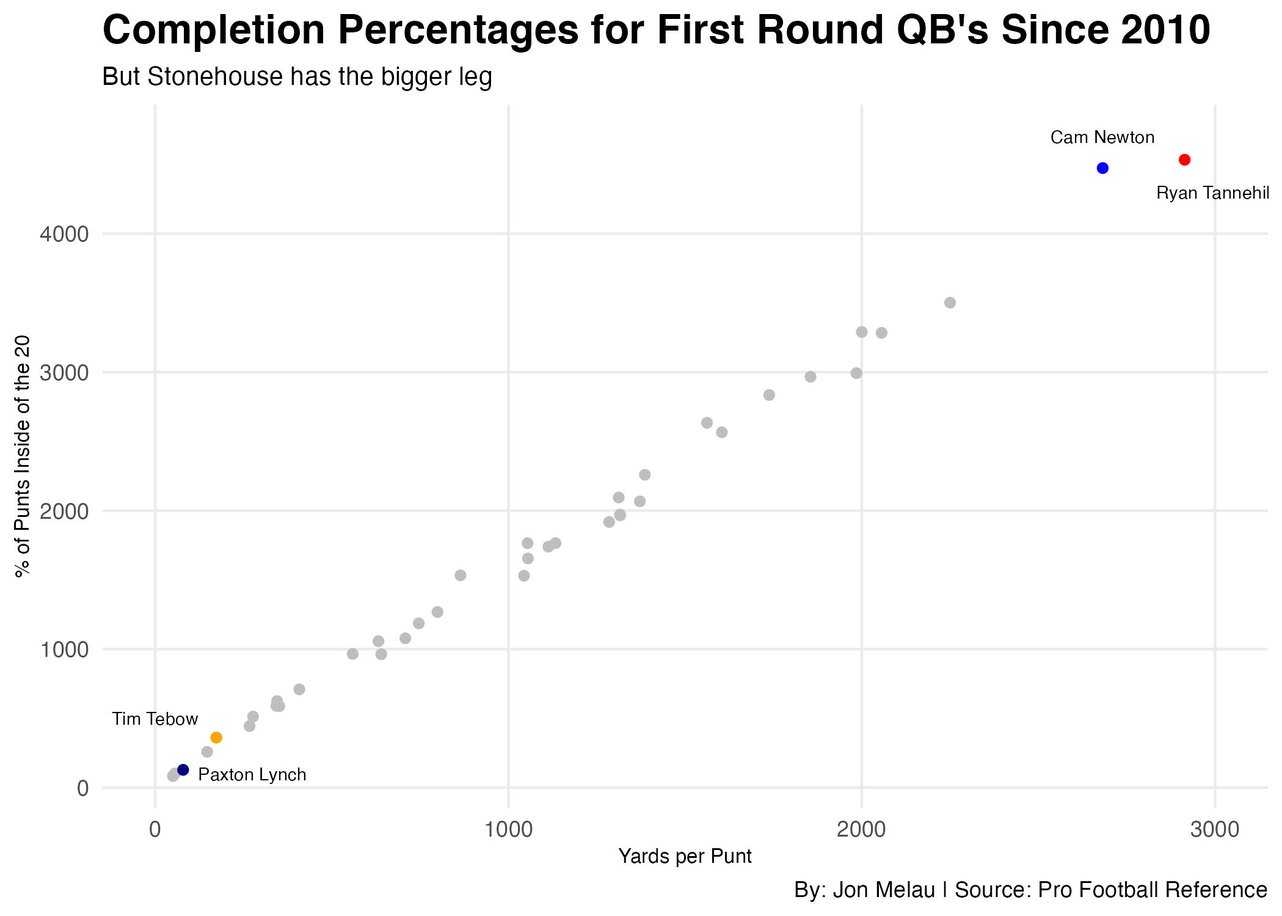
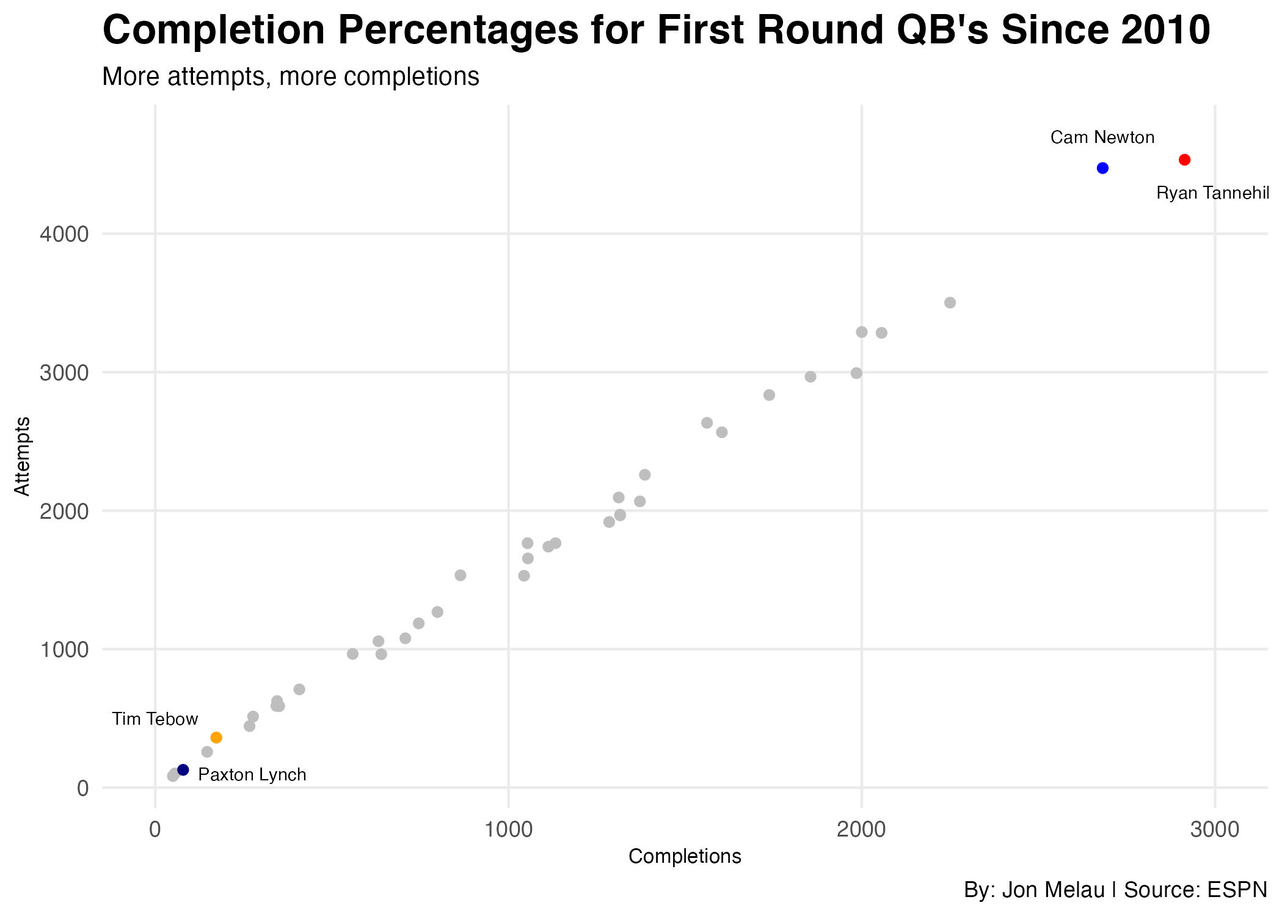
finishing touches

diff --git a/posts/ranking-the-first-round-quarterbacks-since-2010/index.html b/posts/ranking-the-first-round-quarterbacks-since-2010/index.html
@@ -184,36 +184,11 @@ pre > code.sourceCode > span > a:first-child::before { text-decoration: underlin
 <div class="cell">
 <details>
 <summary>Code</summary>
-<div class="sourceCode cell-code" id="cb1"><pre class="sourceCode r code-with-copy"><code class="sourceCode r"><span id="cb1-1"><a href="#cb1-1" aria-hidden="true" tabindex="-1"></a><span class="fu">library</span>(tidyverse)</span></code><button title="Copy to Clipboard" class="code-copy-button"><i class="bi"></i></button></pre></div>
-</details>
-<div class="cell-output cell-output-stderr">
-<pre><code>── Attaching packages ─────────────────────────────────────── tidyverse 1.3.2 ──
-✔ ggplot2 3.4.0     ✔ purrr   1.0.1
-✔ tibble  3.2.1     ✔ dplyr   1.1.2
-✔ tidyr   1.3.0     ✔ stringr 1.5.0
-✔ readr   2.1.3     ✔ forcats 0.5.2
-── Conflicts ────────────────────────────────────────── tidyverse_conflicts() ──
-✖ dplyr::filter() masks stats::filter()
-✖ dplyr::lag()    masks stats::lag()</code></pre>
-</div>
-<details>
-<summary>Code</summary>
-<div class="sourceCode cell-code" id="cb3"><pre class="sourceCode r code-with-copy"><code class="sourceCode r"><span id="cb3-1"><a href="#cb3-1" aria-hidden="true" tabindex="-1"></a><span class="fu">library</span>(ggplot2)</span>
-<span id="cb3-2"><a href="#cb3-2" aria-hidden="true" tabindex="-1"></a><span class="fu">library</span>(ggalt)</span></code><button title="Copy to Clipboard" class="code-copy-button"><i class="bi"></i></button></pre></div>
-</details>
-<div class="cell-output cell-output-stderr">
-<pre><code>Registered S3 methods overwritten by 'ggalt':
-  method                  from   
-  grid.draw.absoluteGrob  ggplot2
-  grobHeight.absoluteGrob ggplot2
-  grobWidth.absoluteGrob  ggplot2
-  grobX.absoluteGrob      ggplot2
-  grobY.absoluteGrob      ggplot2</code></pre>
-</div>
-<details>
-<summary>Code</summary>
-<div class="sourceCode cell-code" id="cb5"><pre class="sourceCode r code-with-copy"><code class="sourceCode r"><span id="cb5-1"><a href="#cb5-1" aria-hidden="true" tabindex="-1"></a><span class="fu">library</span>(labeling)</span>
-<span id="cb5-2"><a href="#cb5-2" aria-hidden="true" tabindex="-1"></a><span class="fu">library</span>(ggrepel)</span></code><button title="Copy to Clipboard" class="code-copy-button"><i class="bi"></i></button></pre></div>
+<div class="sourceCode cell-code" id="cb1"><pre class="sourceCode r code-with-copy"><code class="sourceCode r"><span id="cb1-1"><a href="#cb1-1" aria-hidden="true" tabindex="-1"></a><span class="fu">library</span>(tidyverse)</span>
+<span id="cb1-2"><a href="#cb1-2" aria-hidden="true" tabindex="-1"></a><span class="fu">library</span>(ggplot2)</span>
+<span id="cb1-3"><a href="#cb1-3" aria-hidden="true" tabindex="-1"></a><span class="fu">library</span>(ggalt)</span>
+<span id="cb1-4"><a href="#cb1-4" aria-hidden="true" tabindex="-1"></a><span class="fu">library</span>(labeling)</span>
+<span id="cb1-5"><a href="#cb1-5" aria-hidden="true" tabindex="-1"></a><span class="fu">library</span>(ggrepel)</span></code><button title="Copy to Clipboard" class="code-copy-button"><i class="bi"></i></button></pre></div>
 </details>
 </div>
 <p>The quarterback position is widely renowned as the hardest position in all of sports. You need a mixture of arm strength, accuracy, mobility, confidence, awareness, and so many other traits to be sustainable at the highest level of the sport. Year after year college prospects declare for the NFL draft, submitting their name into a pool of players to hopefully be selected to an NFL team. Each year, this pool of players typically contains a few high profile quarterbacks that are slated to be taken with high overall, or first-round picks.</p>
@@ -224,40 +199,30 @@ pre > code.sourceCode > span > a:first-child::before { text-decoration: underlin
 <div class="cell">
 <details>
 <summary>Code</summary>
-<div class="sourceCode cell-code" id="cb6"><pre class="sourceCode r code-with-copy"><code class="sourceCode r"><span id="cb6-1"><a href="#cb6-1" aria-hidden="true" tabindex="-1"></a> qbdata <span class="ot">&lt;-</span> <span class="fu">read_csv</span>(<span class="st">"data/qbsdata.csv"</span>)</span></code><button title="Copy to Clipboard" class="code-copy-button"><i class="bi"></i></button></pre></div>
+<div class="sourceCode cell-code" id="cb2"><pre class="sourceCode r code-with-copy"><code class="sourceCode r"><span id="cb2-1"><a href="#cb2-1" aria-hidden="true" tabindex="-1"></a> qbdata <span class="ot">&lt;-</span> <span class="fu">read_csv</span>(<span class="st">"data/qbsdata.csv"</span>)</span></code><button title="Copy to Clipboard" class="code-copy-button"><i class="bi"></i></button></pre></div>
 </details>
-<div class="cell-output cell-output-stderr">
-<pre><code>Rows: 39 Columns: 13
-── Column specification ────────────────────────────────────────────────────────
-Delimiter: ","
-chr  (1): Name
-dbl (12): Draft Year, Draft Pick, Games Played, Attempts, Completions, Compl...
-
-ℹ Use `spec()` to retrieve the full column specification for this data.
-ℹ Specify the column types or set `show_col_types = FALSE` to quiet this message.</code></pre>
-</div>
 </div>
 <div class="cell">
 <details>
 <summary>Code</summary>
-<div class="sourceCode cell-code" id="cb8"><pre class="sourceCode r code-with-copy"><code class="sourceCode r"><span id="cb8-1"><a href="#cb8-1" aria-hidden="true" tabindex="-1"></a><span class="fu">ggplot</span>(qbdata, <span class="fu">aes</span>(<span class="at">x=</span><span class="fu">reorder</span>(Name, TD), <span class="at">weight=</span>INT, <span class="at">fill=</span>TD)) <span class="sc">+</span> </span>
-<span id="cb8-2"><a href="#cb8-2" aria-hidden="true" tabindex="-1"></a>  <span class="fu">geom_bar</span>() <span class="sc">+</span> </span>
-<span id="cb8-3"><a href="#cb8-3" aria-hidden="true" tabindex="-1"></a>  <span class="fu">coord_flip</span>() <span class="sc">+</span></span>
-<span id="cb8-4"><a href="#cb8-4" aria-hidden="true" tabindex="-1"></a>  <span class="fu">labs</span>(</span>
-<span id="cb8-5"><a href="#cb8-5" aria-hidden="true" tabindex="-1"></a>    <span class="at">y =</span> <span class="st">"Touchdown to Interception Ratio"</span>,</span>
-<span id="cb8-6"><a href="#cb8-6" aria-hidden="true" tabindex="-1"></a>    <span class="at">x =</span> <span class="st">"Player"</span>,</span>
-<span id="cb8-7"><a href="#cb8-7" aria-hidden="true" tabindex="-1"></a>    <span class="at">title =</span> <span class="st">"Touch Down to Interception Ratio"</span>,</span>
-<span id="cb8-8"><a href="#cb8-8" aria-hidden="true" tabindex="-1"></a>    <span class="at">subtitle =</span> <span class="st">"The lighter the color, the better the ratio"</span>,</span>
-<span id="cb8-9"><a href="#cb8-9" aria-hidden="true" tabindex="-1"></a>    <span class="at">source =</span> <span class="st">"ESPN"</span></span>
-<span id="cb8-10"><a href="#cb8-10" aria-hidden="true" tabindex="-1"></a>  ) <span class="sc">+</span></span>
-<span id="cb8-11"><a href="#cb8-11" aria-hidden="true" tabindex="-1"></a>  <span class="fu">scale_y_continuous</span>(<span class="at">labels =</span> scales<span class="sc">::</span>comma) <span class="sc">+</span></span>
-<span id="cb8-12"><a href="#cb8-12" aria-hidden="true" tabindex="-1"></a>  <span class="fu">theme_minimal</span>() <span class="sc">+</span></span>
-<span id="cb8-13"><a href="#cb8-13" aria-hidden="true" tabindex="-1"></a>  <span class="fu">theme</span>(</span>
-<span id="cb8-14"><a href="#cb8-14" aria-hidden="true" tabindex="-1"></a>    <span class="at">plot.title =</span> <span class="fu">element_text</span>(<span class="at">size =</span> <span class="dv">16</span>, <span class="at">face =</span> <span class="st">"bold"</span>),</span>
-<span id="cb8-15"><a href="#cb8-15" aria-hidden="true" tabindex="-1"></a>    <span class="at">plot.subtitle =</span> <span class="fu">element_text</span>(<span class="at">size =</span> <span class="dv">10</span>),</span>
-<span id="cb8-16"><a href="#cb8-16" aria-hidden="true" tabindex="-1"></a>    <span class="at">axis.title =</span> <span class="fu">element_text</span>(<span class="at">size =</span> <span class="dv">10</span>),</span>
-<span id="cb8-17"><a href="#cb8-17" aria-hidden="true" tabindex="-1"></a>    <span class="at">panel.grid.minor =</span> <span class="fu">element_blank</span>()</span>
-<span id="cb8-18"><a href="#cb8-18" aria-hidden="true" tabindex="-1"></a>  )</span></code><button title="Copy to Clipboard" class="code-copy-button"><i class="bi"></i></button></pre></div>
+<div class="sourceCode cell-code" id="cb3"><pre class="sourceCode r code-with-copy"><code class="sourceCode r"><span id="cb3-1"><a href="#cb3-1" aria-hidden="true" tabindex="-1"></a><span class="fu">ggplot</span>(qbdata, <span class="fu">aes</span>(<span class="at">x=</span><span class="fu">reorder</span>(Name, TD), <span class="at">weight=</span>INT, <span class="at">fill=</span>TD)) <span class="sc">+</span> </span>
+<span id="cb3-2"><a href="#cb3-2" aria-hidden="true" tabindex="-1"></a>  <span class="fu">geom_bar</span>() <span class="sc">+</span> </span>
+<span id="cb3-3"><a href="#cb3-3" aria-hidden="true" tabindex="-1"></a>  <span class="fu">coord_flip</span>() <span class="sc">+</span></span>
+<span id="cb3-4"><a href="#cb3-4" aria-hidden="true" tabindex="-1"></a>  <span class="fu">labs</span>(</span>
+<span id="cb3-5"><a href="#cb3-5" aria-hidden="true" tabindex="-1"></a>    <span class="at">y =</span> <span class="st">"Touchdown to Interception Ratio"</span>,</span>
+<span id="cb3-6"><a href="#cb3-6" aria-hidden="true" tabindex="-1"></a>    <span class="at">x =</span> <span class="st">"Player"</span>,</span>
+<span id="cb3-7"><a href="#cb3-7" aria-hidden="true" tabindex="-1"></a>    <span class="at">title =</span> <span class="st">"Touch Down to Interception Ratio"</span>,</span>
+<span id="cb3-8"><a href="#cb3-8" aria-hidden="true" tabindex="-1"></a>    <span class="at">subtitle =</span> <span class="st">"The lighter the color, the better the ratio"</span>,</span>
+<span id="cb3-9"><a href="#cb3-9" aria-hidden="true" tabindex="-1"></a>    <span class="at">source =</span> <span class="st">"ESPN"</span></span>
+<span id="cb3-10"><a href="#cb3-10" aria-hidden="true" tabindex="-1"></a>  ) <span class="sc">+</span></span>
+<span id="cb3-11"><a href="#cb3-11" aria-hidden="true" tabindex="-1"></a>  <span class="fu">scale_y_continuous</span>(<span class="at">labels =</span> scales<span class="sc">::</span>comma) <span class="sc">+</span></span>
+<span id="cb3-12"><a href="#cb3-12" aria-hidden="true" tabindex="-1"></a>  <span class="fu">theme_minimal</span>() <span class="sc">+</span></span>
+<span id="cb3-13"><a href="#cb3-13" aria-hidden="true" tabindex="-1"></a>  <span class="fu">theme</span>(</span>
+<span id="cb3-14"><a href="#cb3-14" aria-hidden="true" tabindex="-1"></a>    <span class="at">plot.title =</span> <span class="fu">element_text</span>(<span class="at">size =</span> <span class="dv">16</span>, <span class="at">face =</span> <span class="st">"bold"</span>),</span>
+<span id="cb3-15"><a href="#cb3-15" aria-hidden="true" tabindex="-1"></a>    <span class="at">plot.subtitle =</span> <span class="fu">element_text</span>(<span class="at">size =</span> <span class="dv">10</span>),</span>
+<span id="cb3-16"><a href="#cb3-16" aria-hidden="true" tabindex="-1"></a>    <span class="at">axis.title =</span> <span class="fu">element_text</span>(<span class="at">size =</span> <span class="dv">10</span>),</span>
+<span id="cb3-17"><a href="#cb3-17" aria-hidden="true" tabindex="-1"></a>    <span class="at">panel.grid.minor =</span> <span class="fu">element_blank</span>()</span>
+<span id="cb3-18"><a href="#cb3-18" aria-hidden="true" tabindex="-1"></a>  )</span></code><button title="Copy to Clipboard" class="code-copy-button"><i class="bi"></i></button></pre></div>
 </details>
 <div class="cell-output-display">
 <p><img src="index_files/figure-html/unnamed-chunk-3-1.png" class="img-fluid" width="672"></p>
@@ -270,83 +235,70 @@ dbl (12): Draft Year, Draft Pick, Games Played, Attempts, Completions, Compl...
 <div class="cell">
 <details>
 <summary>Code</summary>
-<div class="sourceCode cell-code" id="cb9"><pre class="sourceCode r code-with-copy"><code class="sourceCode r"><span id="cb9-1"><a href="#cb9-1" aria-hidden="true" tabindex="-1"></a> qbrank <span class="ot">&lt;-</span> <span class="fu">read_csv</span>(<span class="st">"qbsrank.csv"</span>)</span></code><button title="Copy to Clipboard" class="code-copy-button"><i class="bi"></i></button></pre></div>
-</details>
-<div class="cell-output cell-output-stderr">
-<pre><code>Rows: 39 Columns: 4
-── Column specification ────────────────────────────────────────────────────────
-Delimiter: ","
-chr (2): Name, Team
-dbl (2): Rank, Rating
-
-ℹ Use `spec()` to retrieve the full column specification for this data.
-ℹ Specify the column types or set `show_col_types = FALSE` to quiet this message.</code></pre>
-</div>
-</div>
-<div class="cell">
-<details>
-<summary>Code</summary>
-<div class="sourceCode cell-code" id="cb11"><pre class="sourceCode r code-with-copy"><code class="sourceCode r"><span id="cb11-1"><a href="#cb11-1" aria-hidden="true" tabindex="-1"></a>Paxton_Lynch <span class="ot">&lt;-</span> qbdata <span class="sc">%&gt;%</span></span>
-<span id="cb11-2"><a href="#cb11-2" aria-hidden="true" tabindex="-1"></a>  <span class="fu">filter</span> (Name <span class="sc">==</span> <span class="st">"Paxton Lynch"</span>)</span></code><button title="Copy to Clipboard" class="code-copy-button"><i class="bi"></i></button></pre></div>
+<div class="sourceCode cell-code" id="cb4"><pre class="sourceCode r code-with-copy"><code class="sourceCode r"><span id="cb4-1"><a href="#cb4-1" aria-hidden="true" tabindex="-1"></a> qbrank <span class="ot">&lt;-</span> <span class="fu">read_csv</span>(<span class="st">"qbsrank.csv"</span>)</span></code><button title="Copy to Clipboard" class="code-copy-button"><i class="bi"></i></button></pre></div>
 </details>
 </div>
 <div class="cell">
 <details>
 <summary>Code</summary>
-<div class="sourceCode cell-code" id="cb12"><pre class="sourceCode r code-with-copy"><code class="sourceCode r"><span id="cb12-1"><a href="#cb12-1" aria-hidden="true" tabindex="-1"></a>Tim_Tebow <span class="ot">&lt;-</span> qbdata <span class="sc">%&gt;%</span></span>
-<span id="cb12-2"><a href="#cb12-2" aria-hidden="true" tabindex="-1"></a>  <span class="fu">filter</span> (Name <span class="sc">==</span> <span class="st">"Tim Tebow"</span>)</span></code><button title="Copy to Clipboard" class="code-copy-button"><i class="bi"></i></button></pre></div>
+<div class="sourceCode cell-code" id="cb5"><pre class="sourceCode r code-with-copy"><code class="sourceCode r"><span id="cb5-1"><a href="#cb5-1" aria-hidden="true" tabindex="-1"></a>Paxton_Lynch <span class="ot">&lt;-</span> qbdata <span class="sc">%&gt;%</span></span>
+<span id="cb5-2"><a href="#cb5-2" aria-hidden="true" tabindex="-1"></a>  <span class="fu">filter</span> (Name <span class="sc">==</span> <span class="st">"Paxton Lynch"</span>)</span></code><button title="Copy to Clipboard" class="code-copy-button"><i class="bi"></i></button></pre></div>
 </details>
 </div>
 <div class="cell">
 <details>
 <summary>Code</summary>
-<div class="sourceCode cell-code" id="cb13"><pre class="sourceCode r code-with-copy"><code class="sourceCode r"><span id="cb13-1"><a href="#cb13-1" aria-hidden="true" tabindex="-1"></a>Cam_Newton <span class="ot">&lt;-</span> qbdata <span class="sc">%&gt;%</span></span>
-<span id="cb13-2"><a href="#cb13-2" aria-hidden="true" tabindex="-1"></a>  <span class="fu">filter</span> (Name <span class="sc">==</span> <span class="st">"Cam Newton"</span>)</span></code><button title="Copy to Clipboard" class="code-copy-button"><i class="bi"></i></button></pre></div>
+<div class="sourceCode cell-code" id="cb6"><pre class="sourceCode r code-with-copy"><code class="sourceCode r"><span id="cb6-1"><a href="#cb6-1" aria-hidden="true" tabindex="-1"></a>Tim_Tebow <span class="ot">&lt;-</span> qbdata <span class="sc">%&gt;%</span></span>
+<span id="cb6-2"><a href="#cb6-2" aria-hidden="true" tabindex="-1"></a>  <span class="fu">filter</span> (Name <span class="sc">==</span> <span class="st">"Tim Tebow"</span>)</span></code><button title="Copy to Clipboard" class="code-copy-button"><i class="bi"></i></button></pre></div>
 </details>
 </div>
 <div class="cell">
 <details>
 <summary>Code</summary>
-<div class="sourceCode cell-code" id="cb14"><pre class="sourceCode r code-with-copy"><code class="sourceCode r"><span id="cb14-1"><a href="#cb14-1" aria-hidden="true" tabindex="-1"></a>Ryan_Tannehill <span class="ot">&lt;-</span> qbdata <span class="sc">%&gt;%</span></span>
-<span id="cb14-2"><a href="#cb14-2" aria-hidden="true" tabindex="-1"></a>  <span class="fu">filter</span> (Name <span class="sc">==</span> <span class="st">"Ryan Tannehill"</span>)</span></code><button title="Copy to Clipboard" class="code-copy-button"><i class="bi"></i></button></pre></div>
+<div class="sourceCode cell-code" id="cb7"><pre class="sourceCode r code-with-copy"><code class="sourceCode r"><span id="cb7-1"><a href="#cb7-1" aria-hidden="true" tabindex="-1"></a>Cam_Newton <span class="ot">&lt;-</span> qbdata <span class="sc">%&gt;%</span></span>
+<span id="cb7-2"><a href="#cb7-2" aria-hidden="true" tabindex="-1"></a>  <span class="fu">filter</span> (Name <span class="sc">==</span> <span class="st">"Cam Newton"</span>)</span></code><button title="Copy to Clipboard" class="code-copy-button"><i class="bi"></i></button></pre></div>
 </details>
 </div>
 <div class="cell">
 <details>
 <summary>Code</summary>
-<div class="sourceCode cell-code" id="cb15"><pre class="sourceCode r code-with-copy"><code class="sourceCode r"><span id="cb15-1"><a href="#cb15-1" aria-hidden="true" tabindex="-1"></a><span class="fu">ggplot</span>() <span class="sc">+</span></span>
-<span id="cb15-2"><a href="#cb15-2" aria-hidden="true" tabindex="-1"></a><span class="fu">geom_point</span>(<span class="at">data =</span> qbdata, <span class="fu">aes</span>(<span class="at">x =</span> Completions, <span class="at">y =</span> Attempts ), <span class="at">color =</span> <span class="st">'grey'</span>) <span class="sc">+</span></span>
-<span id="cb15-3"><a href="#cb15-3" aria-hidden="true" tabindex="-1"></a>  <span class="fu">geom_point</span>(<span class="at">data =</span> Paxton_Lynch, <span class="fu">aes</span>(<span class="at">x =</span> Completions, <span class="at">y =</span> Attempts), <span class="at">color =</span> <span class="st">'navy'</span>) <span class="sc">+</span></span>
-<span id="cb15-4"><a href="#cb15-4" aria-hidden="true" tabindex="-1"></a>  <span class="fu">geom_point</span>(<span class="at">data =</span> Tim_Tebow, <span class="fu">aes</span>(<span class="at">x =</span> Completions, <span class="at">y =</span> Attempts), <span class="at">color =</span> <span class="st">'orange'</span>) <span class="sc">+</span></span>
-<span id="cb15-5"><a href="#cb15-5" aria-hidden="true" tabindex="-1"></a>  <span class="fu">geom_point</span>(<span class="at">data =</span> Cam_Newton, <span class="fu">aes</span>(<span class="at">x =</span> Completions, <span class="at">y =</span> Attempts), <span class="at">color =</span> <span class="st">'blue'</span>) <span class="sc">+</span></span>
-<span id="cb15-6"><a href="#cb15-6" aria-hidden="true" tabindex="-1"></a>  <span class="fu">geom_point</span>(<span class="at">data =</span> Ryan_Tannehill, <span class="fu">aes</span>(<span class="at">x =</span> Completions, <span class="at">y =</span> Attempts), <span class="at">color =</span> <span class="st">'red'</span>) <span class="sc">+</span></span>
-<span id="cb15-7"><a href="#cb15-7" aria-hidden="true" tabindex="-1"></a>  <span class="fu">geom_text</span>(<span class="fu">aes</span>(<span class="at">x=</span><span class="dv">275</span>, <span class="at">y=</span><span class="dv">100</span>, <span class="at">label=</span><span class="st">"Paxton Lynch"</span>),<span class="at">size=</span><span class="fl">2.5</span>, <span class="at">color=</span><span class="st">"black"</span>) <span class="sc">+</span></span>
-<span id="cb15-8"><a href="#cb15-8" aria-hidden="true" tabindex="-1"></a>  <span class="fu">geom_text</span>(<span class="fu">aes</span>(<span class="at">x=</span><span class="dv">0</span>, <span class="at">y=</span><span class="dv">500</span>, <span class="at">label=</span><span class="st">"Tim Tebow"</span>),<span class="at">size=</span><span class="fl">2.5</span>, <span class="at">color=</span><span class="st">"black"</span>) <span class="sc">+</span></span>
-<span id="cb15-9"><a href="#cb15-9" aria-hidden="true" tabindex="-1"></a>  <span class="fu">geom_text</span>(<span class="fu">aes</span>(<span class="at">x=</span><span class="dv">2682</span>, <span class="at">y=</span><span class="dv">4700</span>, <span class="at">label=</span><span class="st">"Cam Newton"</span>),<span class="at">size=</span><span class="fl">2.5</span>, <span class="at">color=</span><span class="st">"black"</span>) <span class="sc">+</span></span>
-<span id="cb15-10"><a href="#cb15-10" aria-hidden="true" tabindex="-1"></a><span class="fu">geom_text</span>(<span class="fu">aes</span>(<span class="at">x=</span><span class="dv">3000</span>, <span class="at">y=</span><span class="dv">4300</span>, <span class="at">label=</span><span class="st">"Ryan Tannehill"</span>),<span class="at">size=</span><span class="fl">2.5</span>, <span class="at">color=</span><span class="st">"black"</span>) <span class="sc">+</span></span>
-<span id="cb15-11"><a href="#cb15-11" aria-hidden="true" tabindex="-1"></a>  <span class="fu">labs</span>(<span class="at">title =</span> <span class="st">"Completion Percentages for First Round QB's Since 2010"</span>,</span>
-<span id="cb15-12"><a href="#cb15-12" aria-hidden="true" tabindex="-1"></a>       <span class="at">subtitle =</span> <span class="st">"But Stonehouse has the bigger leg"</span>,</span>
-<span id="cb15-13"><a href="#cb15-13" aria-hidden="true" tabindex="-1"></a>       <span class="at">x =</span> <span class="st">"Yards per Punt"</span>, <span class="at">y =</span> <span class="st">"% of Punts Inside of the 20"</span>,</span>
-<span id="cb15-14"><a href="#cb15-14" aria-hidden="true" tabindex="-1"></a>       <span class="at">caption =</span> <span class="st">"By: Jon Melau | Source: Pro Football Reference"</span>) <span class="sc">+</span></span>
-<span id="cb15-15"><a href="#cb15-15" aria-hidden="true" tabindex="-1"></a>  <span class="fu">scale_x_continuous</span>(<span class="at">limits =</span> <span class="fu">c</span>(<span class="dv">0</span>, <span class="dv">3000</span>)) <span class="sc">+</span></span>
-<span id="cb15-16"><a href="#cb15-16" aria-hidden="true" tabindex="-1"></a>  <span class="fu">theme_minimal</span>() <span class="sc">+</span></span>
-<span id="cb15-17"><a href="#cb15-17" aria-hidden="true" tabindex="-1"></a>  <span class="fu">theme</span>(</span>
-<span id="cb15-18"><a href="#cb15-18" aria-hidden="true" tabindex="-1"></a>    <span class="at">plot.title =</span> <span class="fu">element_text</span>(<span class="at">size =</span> <span class="dv">16</span>, <span class="at">face =</span> <span class="st">"bold"</span>),</span>
-<span id="cb15-19"><a href="#cb15-19" aria-hidden="true" tabindex="-1"></a>    <span class="at">axis.title =</span> <span class="fu">element_text</span>(<span class="at">size =</span> <span class="dv">8</span>),</span>
-<span id="cb15-20"><a href="#cb15-20" aria-hidden="true" tabindex="-1"></a>    <span class="at">plot.subtitle =</span> <span class="fu">element_text</span>(<span class="at">size =</span> <span class="dv">10</span>),</span>
-<span id="cb15-21"><a href="#cb15-21" aria-hidden="true" tabindex="-1"></a>    <span class="at">panel.grid.minor =</span> <span class="fu">element_blank</span>()</span>
-<span id="cb15-22"><a href="#cb15-22" aria-hidden="true" tabindex="-1"></a>  )</span></code><button title="Copy to Clipboard" class="code-copy-button"><i class="bi"></i></button></pre></div>
+<div class="sourceCode cell-code" id="cb8"><pre class="sourceCode r code-with-copy"><code class="sourceCode r"><span id="cb8-1"><a href="#cb8-1" aria-hidden="true" tabindex="-1"></a>Ryan_Tannehill <span class="ot">&lt;-</span> qbdata <span class="sc">%&gt;%</span></span>
+<span id="cb8-2"><a href="#cb8-2" aria-hidden="true" tabindex="-1"></a>  <span class="fu">filter</span> (Name <span class="sc">==</span> <span class="st">"Ryan Tannehill"</span>)</span></code><button title="Copy to Clipboard" class="code-copy-button"><i class="bi"></i></button></pre></div>
+</details>
+</div>
+<div class="cell">
+<details>
+<summary>Code</summary>
+<div class="sourceCode cell-code" id="cb9"><pre class="sourceCode r code-with-copy"><code class="sourceCode r"><span id="cb9-1"><a href="#cb9-1" aria-hidden="true" tabindex="-1"></a><span class="fu">ggplot</span>() <span class="sc">+</span></span>
+<span id="cb9-2"><a href="#cb9-2" aria-hidden="true" tabindex="-1"></a><span class="fu">geom_point</span>(<span class="at">data =</span> qbdata, <span class="fu">aes</span>(<span class="at">x =</span> Completions, <span class="at">y =</span> Attempts ), <span class="at">color =</span> <span class="st">'grey'</span>) <span class="sc">+</span></span>
+<span id="cb9-3"><a href="#cb9-3" aria-hidden="true" tabindex="-1"></a>  <span class="fu">geom_point</span>(<span class="at">data =</span> Paxton_Lynch, <span class="fu">aes</span>(<span class="at">x =</span> Completions, <span class="at">y =</span> Attempts), <span class="at">color =</span> <span class="st">'navy'</span>) <span class="sc">+</span></span>
+<span id="cb9-4"><a href="#cb9-4" aria-hidden="true" tabindex="-1"></a>  <span class="fu">geom_point</span>(<span class="at">data =</span> Tim_Tebow, <span class="fu">aes</span>(<span class="at">x =</span> Completions, <span class="at">y =</span> Attempts), <span class="at">color =</span> <span class="st">'orange'</span>) <span class="sc">+</span></span>
+<span id="cb9-5"><a href="#cb9-5" aria-hidden="true" tabindex="-1"></a>  <span class="fu">geom_point</span>(<span class="at">data =</span> Cam_Newton, <span class="fu">aes</span>(<span class="at">x =</span> Completions, <span class="at">y =</span> Attempts), <span class="at">color =</span> <span class="st">'blue'</span>) <span class="sc">+</span></span>
+<span id="cb9-6"><a href="#cb9-6" aria-hidden="true" tabindex="-1"></a>  <span class="fu">geom_point</span>(<span class="at">data =</span> Ryan_Tannehill, <span class="fu">aes</span>(<span class="at">x =</span> Completions, <span class="at">y =</span> Attempts), <span class="at">color =</span> <span class="st">'red'</span>) <span class="sc">+</span></span>
+<span id="cb9-7"><a href="#cb9-7" aria-hidden="true" tabindex="-1"></a>  <span class="fu">geom_text</span>(<span class="fu">aes</span>(<span class="at">x=</span><span class="dv">275</span>, <span class="at">y=</span><span class="dv">100</span>, <span class="at">label=</span><span class="st">"Paxton Lynch"</span>),<span class="at">size=</span><span class="fl">2.5</span>, <span class="at">color=</span><span class="st">"black"</span>) <span class="sc">+</span></span>
+<span id="cb9-8"><a href="#cb9-8" aria-hidden="true" tabindex="-1"></a>  <span class="fu">geom_text</span>(<span class="fu">aes</span>(<span class="at">x=</span><span class="dv">0</span>, <span class="at">y=</span><span class="dv">500</span>, <span class="at">label=</span><span class="st">"Tim Tebow"</span>),<span class="at">size=</span><span class="fl">2.5</span>, <span class="at">color=</span><span class="st">"black"</span>) <span class="sc">+</span></span>
+<span id="cb9-9"><a href="#cb9-9" aria-hidden="true" tabindex="-1"></a>  <span class="fu">geom_text</span>(<span class="fu">aes</span>(<span class="at">x=</span><span class="dv">2682</span>, <span class="at">y=</span><span class="dv">4700</span>, <span class="at">label=</span><span class="st">"Cam Newton"</span>),<span class="at">size=</span><span class="fl">2.5</span>, <span class="at">color=</span><span class="st">"black"</span>) <span class="sc">+</span></span>
+<span id="cb9-10"><a href="#cb9-10" aria-hidden="true" tabindex="-1"></a><span class="fu">geom_text</span>(<span class="fu">aes</span>(<span class="at">x=</span><span class="dv">3000</span>, <span class="at">y=</span><span class="dv">4300</span>, <span class="at">label=</span><span class="st">"Ryan Tannehill"</span>),<span class="at">size=</span><span class="fl">2.5</span>, <span class="at">color=</span><span class="st">"black"</span>) <span class="sc">+</span></span>
+<span id="cb9-11"><a href="#cb9-11" aria-hidden="true" tabindex="-1"></a>  <span class="fu">labs</span>(<span class="at">title =</span> <span class="st">"Completion Percentages for First Round QB's Since 2010"</span>,</span>
+<span id="cb9-12"><a href="#cb9-12" aria-hidden="true" tabindex="-1"></a>       <span class="at">subtitle =</span> <span class="st">"More attempts, more completions"</span>,</span>
+<span id="cb9-13"><a href="#cb9-13" aria-hidden="true" tabindex="-1"></a>       <span class="at">x =</span> <span class="st">"Completions"</span>, <span class="at">y =</span> <span class="st">"Attempts"</span>,</span>
+<span id="cb9-14"><a href="#cb9-14" aria-hidden="true" tabindex="-1"></a>       <span class="at">caption =</span> <span class="st">"By: Jon Melau | Source: ESPN"</span>) <span class="sc">+</span></span>
+<span id="cb9-15"><a href="#cb9-15" aria-hidden="true" tabindex="-1"></a>  <span class="fu">scale_x_continuous</span>(<span class="at">limits =</span> <span class="fu">c</span>(<span class="dv">0</span>, <span class="dv">3000</span>)) <span class="sc">+</span></span>
+<span id="cb9-16"><a href="#cb9-16" aria-hidden="true" tabindex="-1"></a>  <span class="fu">theme_minimal</span>() <span class="sc">+</span></span>
+<span id="cb9-17"><a href="#cb9-17" aria-hidden="true" tabindex="-1"></a>  <span class="fu">theme</span>(</span>
+<span id="cb9-18"><a href="#cb9-18" aria-hidden="true" tabindex="-1"></a>    <span class="at">plot.title =</span> <span class="fu">element_text</span>(<span class="at">size =</span> <span class="dv">16</span>, <span class="at">face =</span> <span class="st">"bold"</span>),</span>
+<span id="cb9-19"><a href="#cb9-19" aria-hidden="true" tabindex="-1"></a>    <span class="at">axis.title =</span> <span class="fu">element_text</span>(<span class="at">size =</span> <span class="dv">8</span>),</span>
+<span id="cb9-20"><a href="#cb9-20" aria-hidden="true" tabindex="-1"></a>    <span class="at">plot.subtitle =</span> <span class="fu">element_text</span>(<span class="at">size =</span> <span class="dv">10</span>),</span>
+<span id="cb9-21"><a href="#cb9-21" aria-hidden="true" tabindex="-1"></a>    <span class="at">panel.grid.minor =</span> <span class="fu">element_blank</span>()</span>
+<span id="cb9-22"><a href="#cb9-22" aria-hidden="true" tabindex="-1"></a>  )</span></code><button title="Copy to Clipboard" class="code-copy-button"><i class="bi"></i></button></pre></div>
 </details>
 <div class="cell-output-display">
 <p><img src="index_files/figure-html/unnamed-chunk-9-1.png" class="img-fluid" width="672"></p>
 </div>
 <details>
 <summary>Code</summary>
-<div class="sourceCode cell-code" id="cb16"><pre class="sourceCode r code-with-copy"><code class="sourceCode r"><span id="cb16-1"><a href="#cb16-1" aria-hidden="true" tabindex="-1"></a><span class="fu">ggsave</span>(<span class="st">"image.jpg"</span>)</span></code><button title="Copy to Clipboard" class="code-copy-button"><i class="bi"></i></button></pre></div>
+<div class="sourceCode cell-code" id="cb10"><pre class="sourceCode r code-with-copy"><code class="sourceCode r"><span id="cb10-1"><a href="#cb10-1" aria-hidden="true" tabindex="-1"></a><span class="fu">ggsave</span>(<span class="st">"image.jpg"</span>)</span></code><button title="Copy to Clipboard" class="code-copy-button"><i class="bi"></i></button></pre></div>
 </details>
-<div class="cell-output cell-output-stderr">
-<pre><code>Saving 7 x 5 in image</code></pre>
-</div>
 </div>
 <p>It is obvious that Ryan Tannehill and Cam Newton have more completions and attempts because they have been in the league a lot longer than most quarterbacks on this list. Something to point out though is that Paxton Lynch was drafted in the first round of the 2016 NFL Draft, and Tim Tebow was selected in the first round of the 2010 NFL Draft. Tebow would go on to only be active for 35 games over the course of his 3 year playing career.</p>
 <p>For how electrifying of a player Tebow was at the University of Florida, it is fair to say that he was a bust. Tebow has not been an active quarterback since 2013 as his job was taken from him by arguably a top 4 quarterback of all time, Peyton Manning.</p>
@@ -355,25 +307,25 @@ dbl (2): Rank, Rating
 <div class="cell">
 <details>
 <summary>Code</summary>
-<div class="sourceCode cell-code" id="cb18"><pre class="sourceCode r code-with-copy"><code class="sourceCode r"><span id="cb18-1"><a href="#cb18-1" aria-hidden="true" tabindex="-1"></a><span class="fu">ggplot</span>() <span class="sc">+</span></span>
-<span id="cb18-2"><a href="#cb18-2" aria-hidden="true" tabindex="-1"></a>  <span class="fu">geom_bar</span>(<span class="at">data=</span>qbrank, <span class="fu">aes</span>(<span class="at">x=</span><span class="fu">reorder</span>(Name, Rank), <span class="at">weight=</span>Rating), <span class="at">fill=</span> <span class="st">"green"</span>) <span class="sc">+</span></span>
-<span id="cb18-3"><a href="#cb18-3" aria-hidden="true" tabindex="-1"></a>  <span class="fu">coord_flip</span>() <span class="sc">+</span></span>
-<span id="cb18-4"><a href="#cb18-4" aria-hidden="true" tabindex="-1"></a>  <span class="fu">labs</span>(</span>
-<span id="cb18-5"><a href="#cb18-5" aria-hidden="true" tabindex="-1"></a>    <span class="at">title =</span> <span class="st">"From Worst to First"</span>,</span>
-<span id="cb18-6"><a href="#cb18-6" aria-hidden="true" tabindex="-1"></a>    <span class="at">subtitle =</span> <span class="st">"Ranking every first-round quarterback since 2010 from bust to super star"</span>,</span>
-<span id="cb18-7"><a href="#cb18-7" aria-hidden="true" tabindex="-1"></a>    <span class="at">x =</span> <span class="st">""</span>,</span>
-<span id="cb18-8"><a href="#cb18-8" aria-hidden="true" tabindex="-1"></a>    <span class="at">y =</span> <span class="st">"Efficiency Rating"</span>,</span>
-<span id="cb18-9"><a href="#cb18-9" aria-hidden="true" tabindex="-1"></a>    <span class="at">caption =</span> <span class="st">"ESPN | By: Jon Melau"</span></span>
-<span id="cb18-10"><a href="#cb18-10" aria-hidden="true" tabindex="-1"></a>  ) <span class="sc">+</span></span>
-<span id="cb18-11"><a href="#cb18-11" aria-hidden="true" tabindex="-1"></a>  <span class="fu">theme_minimal</span>() <span class="sc">+</span></span>
-<span id="cb18-12"><a href="#cb18-12" aria-hidden="true" tabindex="-1"></a>  <span class="fu">theme</span>(</span>
-<span id="cb18-13"><a href="#cb18-13" aria-hidden="true" tabindex="-1"></a>    <span class="at">plot.title =</span> <span class="fu">element_text</span>(<span class="at">size =</span> <span class="dv">14</span>, <span class="at">face =</span> <span class="st">"bold"</span>),</span>
-<span id="cb18-14"><a href="#cb18-14" aria-hidden="true" tabindex="-1"></a>    <span class="at">axis.title =</span> <span class="fu">element_text</span>(<span class="at">size =</span> <span class="dv">10</span>), </span>
-<span id="cb18-15"><a href="#cb18-15" aria-hidden="true" tabindex="-1"></a>    <span class="at">plot.subtitle =</span> <span class="fu">element_text</span>(<span class="at">size=</span><span class="dv">11</span>), </span>
-<span id="cb18-16"><a href="#cb18-16" aria-hidden="true" tabindex="-1"></a>    <span class="at">panel.grid.minor =</span> <span class="fu">element_blank</span>(),</span>
-<span id="cb18-17"><a href="#cb18-17" aria-hidden="true" tabindex="-1"></a>    <span class="at">axis.text.x =</span> <span class="fu">element_text</span>(<span class="at">size =</span> <span class="dv">10</span>),</span>
-<span id="cb18-18"><a href="#cb18-18" aria-hidden="true" tabindex="-1"></a>    <span class="at">plot.title.position =</span> <span class="st">"plot"</span></span>
-<span id="cb18-19"><a href="#cb18-19" aria-hidden="true" tabindex="-1"></a>    )</span></code><button title="Copy to Clipboard" class="code-copy-button"><i class="bi"></i></button></pre></div>
+<div class="sourceCode cell-code" id="cb11"><pre class="sourceCode r code-with-copy"><code class="sourceCode r"><span id="cb11-1"><a href="#cb11-1" aria-hidden="true" tabindex="-1"></a><span class="fu">ggplot</span>() <span class="sc">+</span></span>
+<span id="cb11-2"><a href="#cb11-2" aria-hidden="true" tabindex="-1"></a>  <span class="fu">geom_bar</span>(<span class="at">data=</span>qbrank, <span class="fu">aes</span>(<span class="at">x=</span><span class="fu">reorder</span>(Name, Rank), <span class="at">weight=</span>Rating), <span class="at">fill=</span> <span class="st">"green"</span>) <span class="sc">+</span></span>
+<span id="cb11-3"><a href="#cb11-3" aria-hidden="true" tabindex="-1"></a>  <span class="fu">coord_flip</span>() <span class="sc">+</span></span>
+<span id="cb11-4"><a href="#cb11-4" aria-hidden="true" tabindex="-1"></a>  <span class="fu">labs</span>(</span>
+<span id="cb11-5"><a href="#cb11-5" aria-hidden="true" tabindex="-1"></a>    <span class="at">title =</span> <span class="st">"From Worst to First"</span>,</span>
+<span id="cb11-6"><a href="#cb11-6" aria-hidden="true" tabindex="-1"></a>    <span class="at">subtitle =</span> <span class="st">"Ranking every first-round quarterback since 2010 from bust to super star"</span>,</span>
+<span id="cb11-7"><a href="#cb11-7" aria-hidden="true" tabindex="-1"></a>    <span class="at">x =</span> <span class="st">""</span>,</span>
+<span id="cb11-8"><a href="#cb11-8" aria-hidden="true" tabindex="-1"></a>    <span class="at">y =</span> <span class="st">"Efficiency Rating"</span>,</span>
+<span id="cb11-9"><a href="#cb11-9" aria-hidden="true" tabindex="-1"></a>    <span class="at">caption =</span> <span class="st">"ESPN | By: Jon Melau"</span></span>
+<span id="cb11-10"><a href="#cb11-10" aria-hidden="true" tabindex="-1"></a>  ) <span class="sc">+</span></span>
+<span id="cb11-11"><a href="#cb11-11" aria-hidden="true" tabindex="-1"></a>  <span class="fu">theme_minimal</span>() <span class="sc">+</span></span>
+<span id="cb11-12"><a href="#cb11-12" aria-hidden="true" tabindex="-1"></a>  <span class="fu">theme</span>(</span>
+<span id="cb11-13"><a href="#cb11-13" aria-hidden="true" tabindex="-1"></a>    <span class="at">plot.title =</span> <span class="fu">element_text</span>(<span class="at">size =</span> <span class="dv">14</span>, <span class="at">face =</span> <span class="st">"bold"</span>),</span>
+<span id="cb11-14"><a href="#cb11-14" aria-hidden="true" tabindex="-1"></a>    <span class="at">axis.title =</span> <span class="fu">element_text</span>(<span class="at">size =</span> <span class="dv">10</span>), </span>
+<span id="cb11-15"><a href="#cb11-15" aria-hidden="true" tabindex="-1"></a>    <span class="at">plot.subtitle =</span> <span class="fu">element_text</span>(<span class="at">size=</span><span class="dv">11</span>), </span>
+<span id="cb11-16"><a href="#cb11-16" aria-hidden="true" tabindex="-1"></a>    <span class="at">panel.grid.minor =</span> <span class="fu">element_blank</span>(),</span>
+<span id="cb11-17"><a href="#cb11-17" aria-hidden="true" tabindex="-1"></a>    <span class="at">axis.text.x =</span> <span class="fu">element_text</span>(<span class="at">size =</span> <span class="dv">10</span>),</span>
+<span id="cb11-18"><a href="#cb11-18" aria-hidden="true" tabindex="-1"></a>    <span class="at">plot.title.position =</span> <span class="st">"plot"</span></span>
+<span id="cb11-19"><a href="#cb11-19" aria-hidden="true" tabindex="-1"></a>    )</span></code><button title="Copy to Clipboard" class="code-copy-button"><i class="bi"></i></button></pre></div>
 </details>
 <div class="cell-output-display">
 <p><img src="index_files/figure-html/unnamed-chunk-10-1.png" class="img-fluid" width="672"></p>
